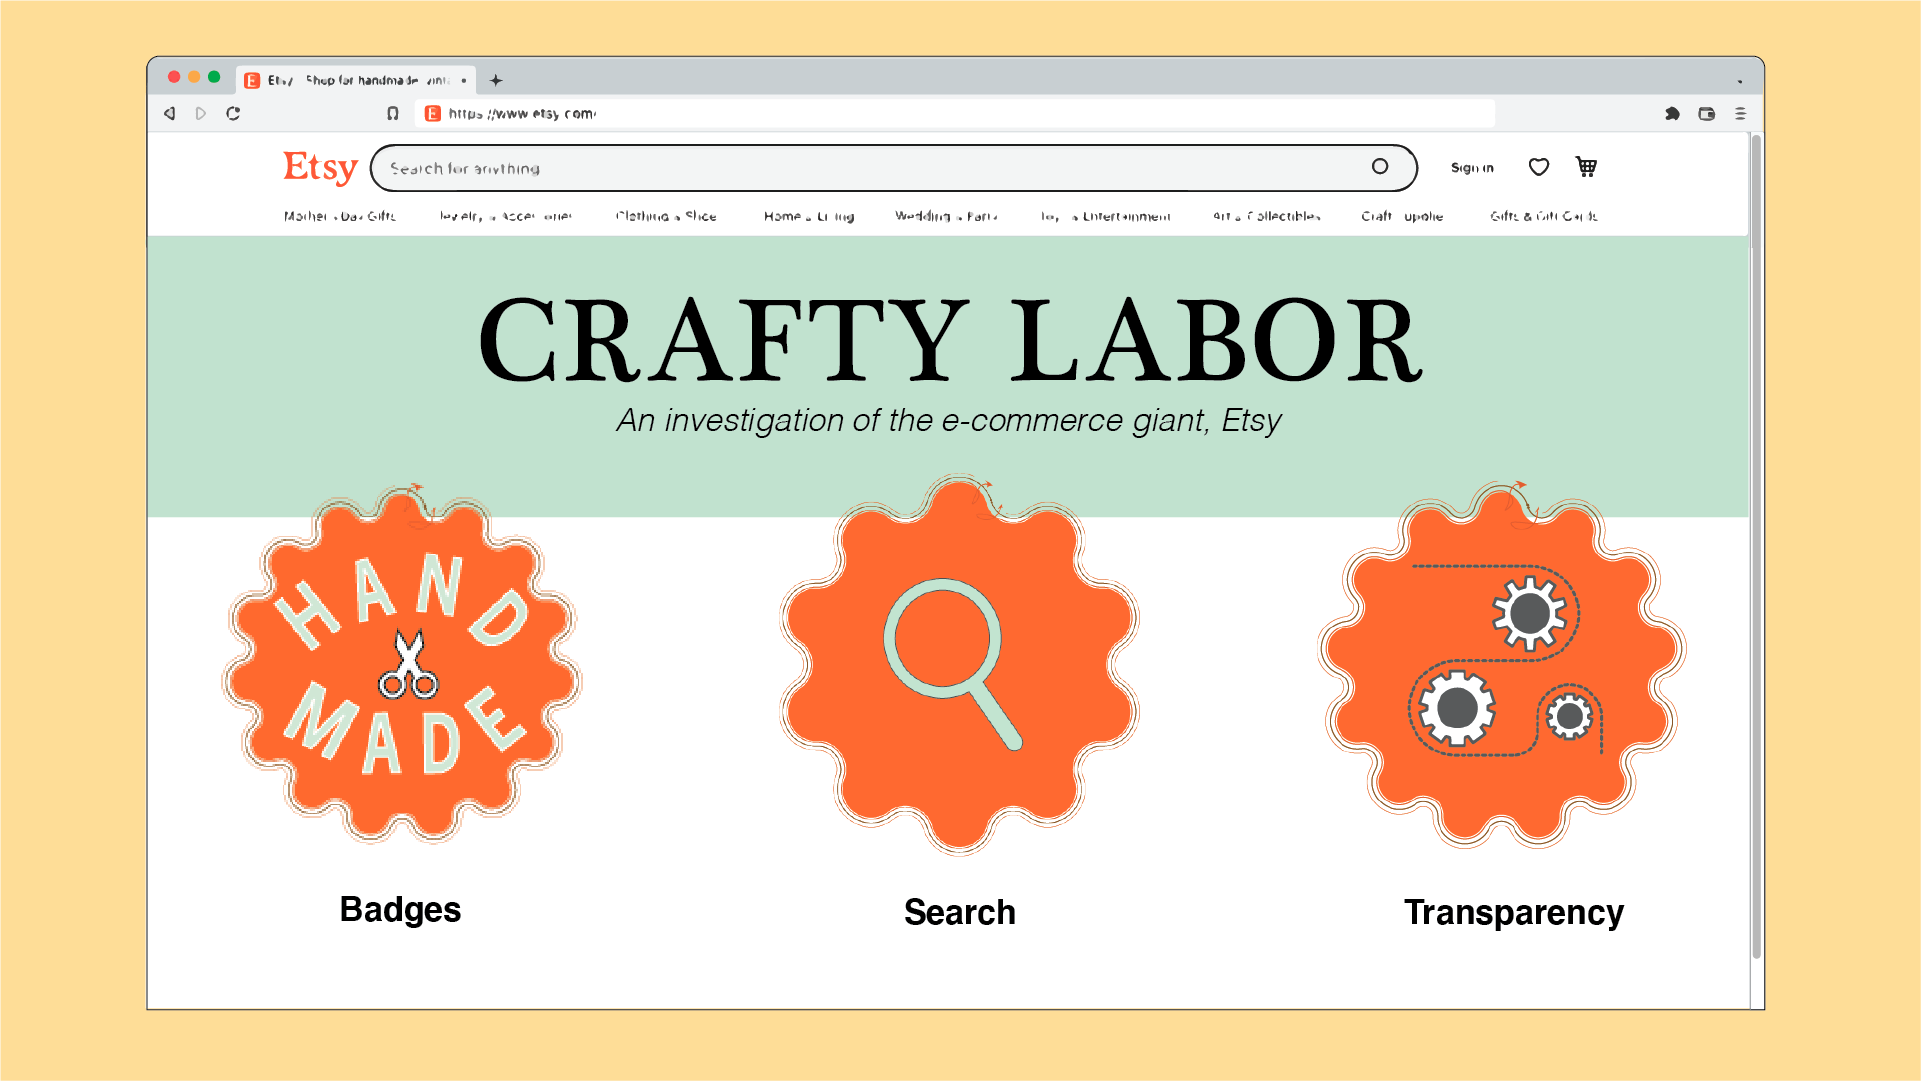
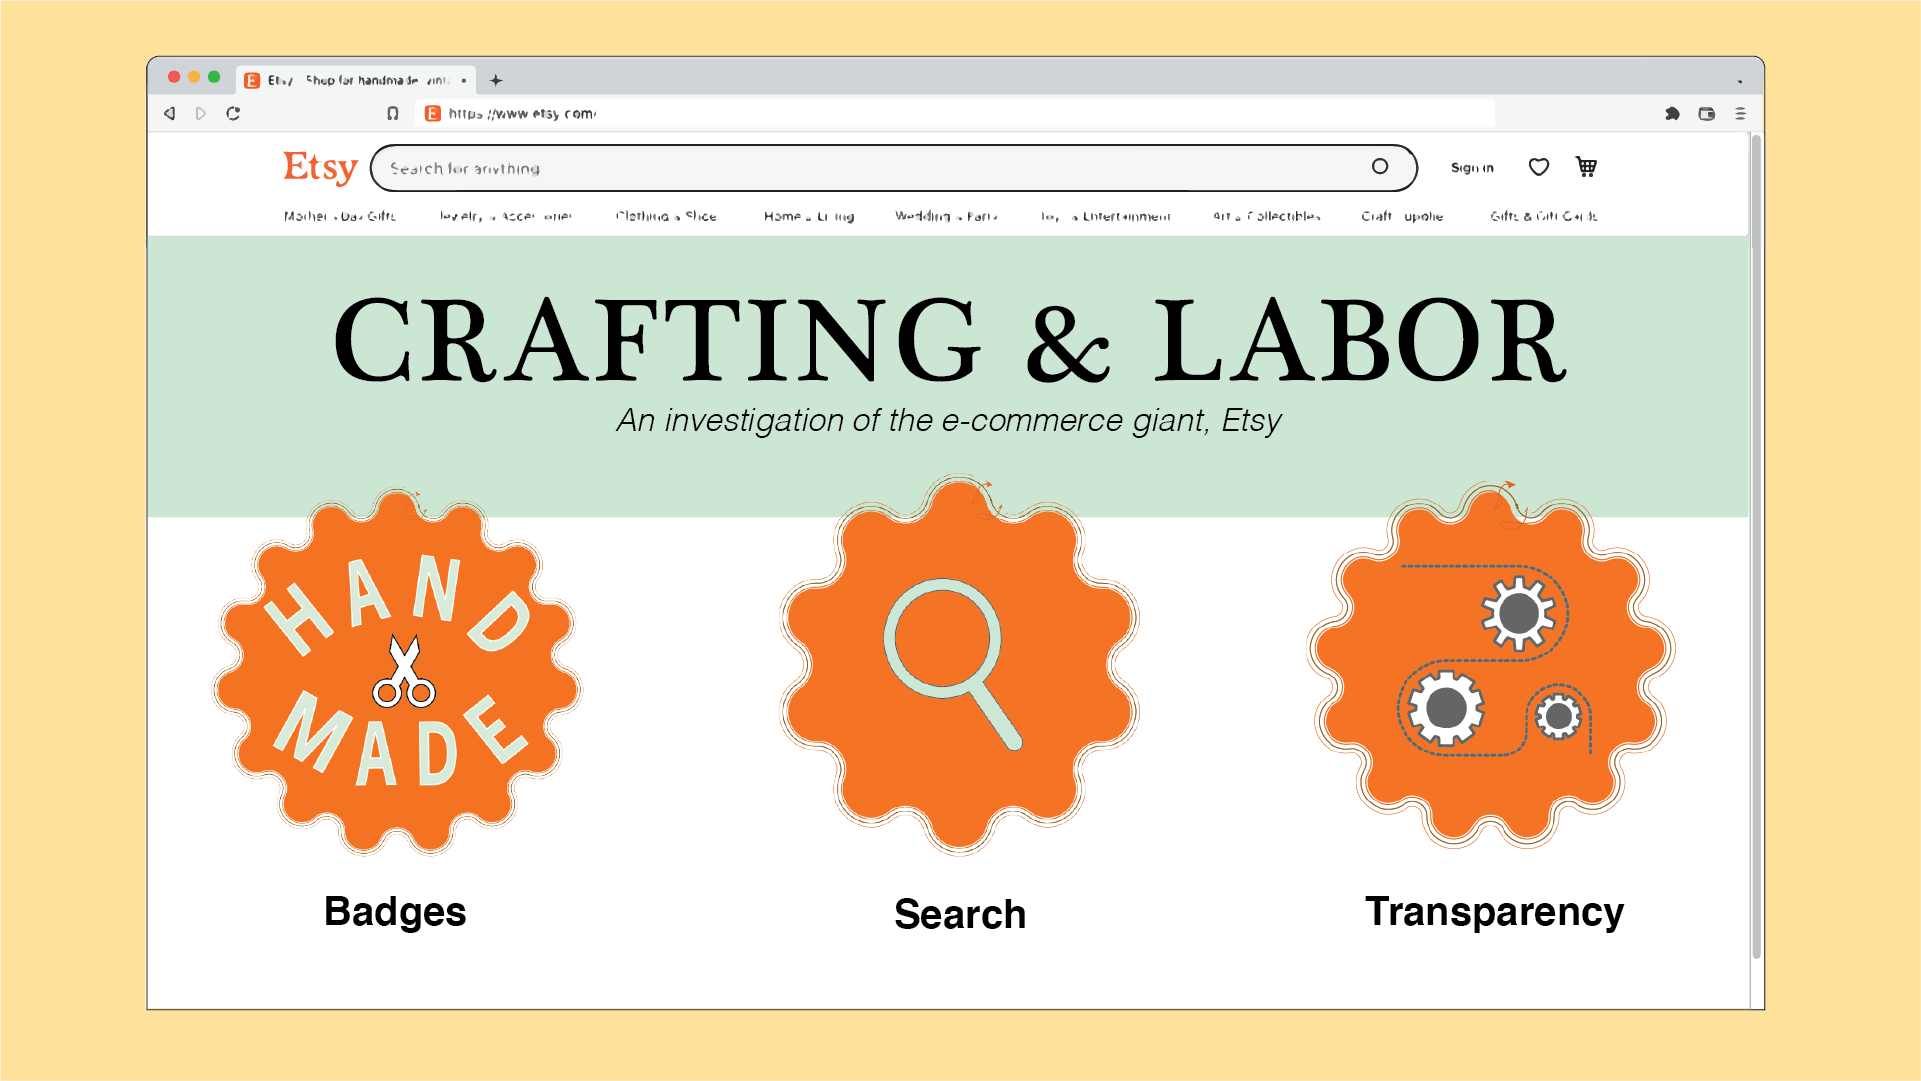
Individual updates + descriptions on person pages
Updated Victoria's Info
Updated Lily's image
Fixed Long Description

diff --git a/js/collection.js b/js/collection.js
@@ -1131,7 +1131,7 @@ let projectCollection = {
 			"Net ID": "va29",
 			"What year are you?": "Final Year Grad (Thesis Project)",
 
-			"Project title": "Crafty Labor: An investigation of the e-commerce giant, Etsy",
+			"Project title": "Crafting & Labor: An investigation of the e-commerce giant, Etsy",
 			"What kind of form is the work (website, game, vr, etc)": "Website",
 			"Short project description (one sentence - 500 characters)": "This project is an investigation of the e-commerce giant, Etsy.",
 			"Discussion Groups": "5 (or 1)",

diff --git a/js/main.js b/js/main.js
@@ -13,7 +13,7 @@ let pYearKey = "What year are you?";
 let pTitleKey = "Project title";
 let pMainURLKey = "Project Link";
 let pShortDescKey = "Short project description (one sentence - 500 characters)";
-let pLongDescKey = "Long Description of your work (4-6 sentences)";
+let pLongDescKey = "Long Description of your work (4-6 sentences).";
 let pHashtagsKey = "Project Hashtag #";
 let pKeywordsKey = "Theme and keywords";
 let sPersonalURLKey = "Link to your personal portfolio";
